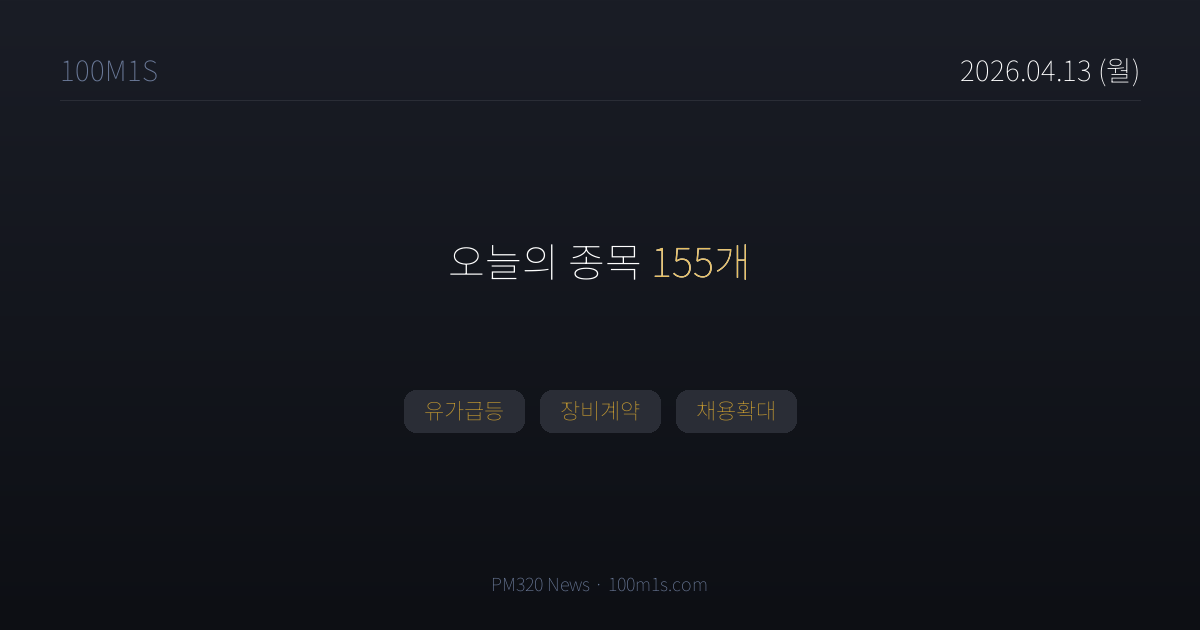
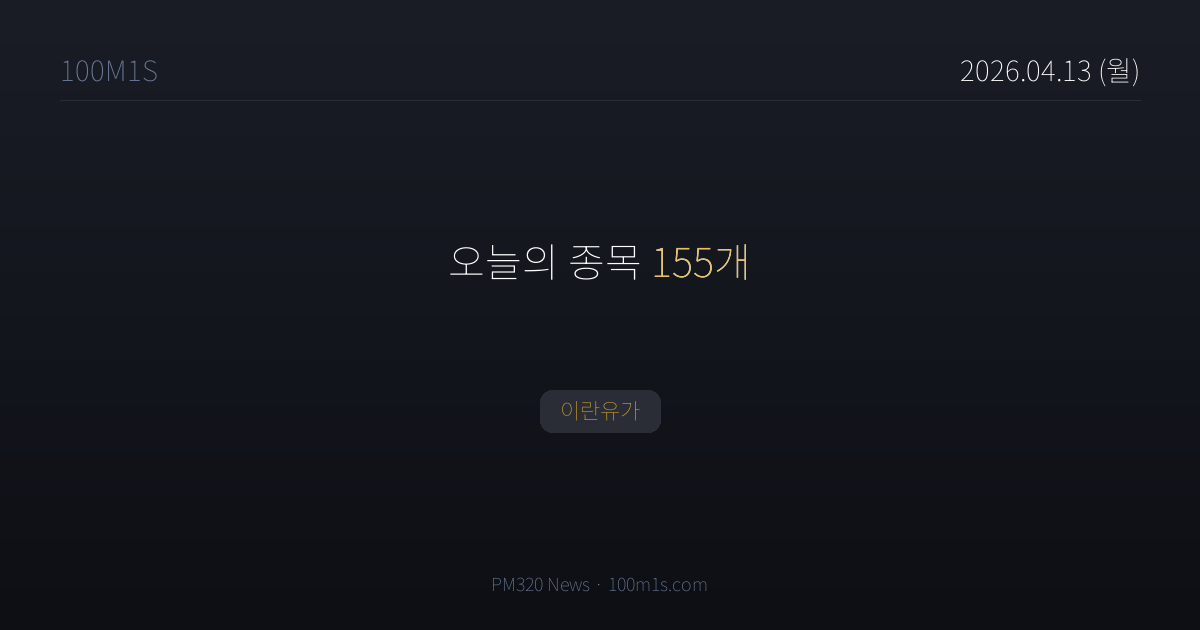
chore(news): 2026-04-13T15:35 pipeline

Changed region(s): [[0.3392, 0.6032, 0.5242, 0.6937], [0.555, 0.6032, 0.6783, 0.6937]]

diff --git a/news/2026-04-13.html b/news/2026-04-13.html
@@ -4,7 +4,7 @@
 <meta charset="UTF-8">
 <title>4월 13일 (월) 뉴스 — 100M1S</title>
 <meta property="og:title" content="4월 13일 (월) · 종목 155개">
-<meta property="og:description" content="유가급등, 장비계약, 채용확대">
+<meta property="og:description" content="이란유가">
 <meta property="og:image" content="https://100m1s.com/og/2026-04-13.png">
 <meta property="og:image:width" content="1200">
 <meta property="og:image:height" content="630">
